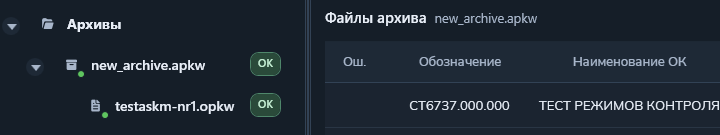
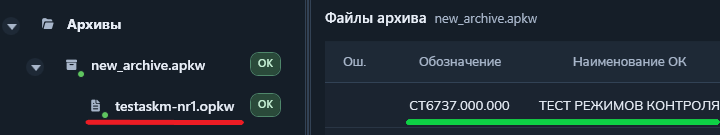
Вторая часть изменений описания архива.
Завершение.

Changed region(s): [[0.55, 0.8593, 1.0, 0.9481], [0.0917, 0.8593, 0.3361, 0.9481]]

diff --git a/Ask.Support/AppHelp/Content/ProgramCompositionChapter/MainComponentsOfProgramChapter/TabFileChapter/FuncArchivePart.html b/Ask.Support/AppHelp/Content/ProgramCompositionChapter/MainComponentsOfProgramChapter/TabFileChapter/FuncArchivePart.html
@@ -2,7 +2,7 @@
 <html lang="ru">
 <head>
     <meta charset="utf-8">
-    <title>Функция "Открыть архив"</title>
+    <title>Функция "Архив"</title>
     <meta name="viewport" content="width=device-width,initial-scale=1">
     <link rel="stylesheet" href="../../../../content.css">
 </head>
@@ -10,7 +10,7 @@
 <body>
     <main class="page-content">
 
-        <h2>Функция "Открыть архив"</h2>
+        <h2>Функция "Архив"</h2>
 
         <p>
             В данной функции можно создать, просмотреть и изменить содрежание <u>архивов</u>.
@@ -76,8 +76,8 @@
         <figure>
             <img src="createArchiveContextMenuImage.png"
                  width="340" height="115"
-                 alt="Создание архива с помощью контекстного меню">
-            <figcaption>Рисунок 5 - Создание архива с помощью контекстного меню</figcaption>
+                 alt="Контекстное меню управления архивами">
+            <figcaption>Рисунок 5 - Контекстное меню управления архивами</figcaption>
         </figure>
         <br>
         <figure>
@@ -123,7 +123,7 @@
         </figure>
         <br>
         <p>
-            После этого в основном окне слева появяться программы контроля, находящиеся в архиве.
+            После этого в основном окне справа появяться программы контроля, находящиеся в архиве.
         </p>
         <figure>
             <img src="generalPlanOpenArchiveImage.png"
@@ -138,28 +138,29 @@
         </p>
         <ul>
             <li>Через контекстное меню - навестисть мышкой на нужный архив, нажать правую кнопку мышки и выбрать соответствующий пункт, как на рисунке 11;</li>
-            <li>С помощью кнопки, расположенной справа сверху, как на рисунке 12 (кнопка №5).</li>
+            <li>С помощью кнопки, расположенной справа сверху, как на рисунке 12 (кнопка №6).</li>
         </ul>
         <figure>
             <img src="archiveContextMenuImage.png"
                  width="360" height="180"
-                 alt="Удаление архива с помощью контекстного меню">
-            <figcaption>Рисунок 11 - Контекстное меню управления архивом</figcaption>
+                 alt="Контекстное меню архива">
+            <figcaption>Рисунок 11 - Контекстное меню архива</figcaption>
         </figure>
         <br>
         <figure>
             <img src="archiveButtonImage.png"
-                 width="230" height="190"
-                 alt="Удаление архива с помощью кнопки">
+                 width="265" height="135"
+                 alt="Кнопки управления архивом">
             <figcaption>Рисунок 12 - Кнопки управления архивом</figcaption>
         </figure>
 
         <h3>Прочие действия с архивом</h3>
         <ul>
-            <li><strong>Сохранить архив на диск</strong> или <strong>кнопка №1</strong> - сохраняет архив на компьютер в виде файла с расширением *.apkw;</li>
-            <li><strong>Кнопка №2</strong> - конвертирует архив для старой версии программы управления АСК-МКИ;</li>
-            <li><strong>Распечатать каталог архива</strong> или <strong>кнопка №3</strong> - распечатывает каталог программ контроля из выбранного архива (<u>пример на рисунке 13</u>);</li>
-            <li><strong>Добавить файл</strong> или <strong>кнопка №4</strong> - добавляет новый файл программы контроля в архив.</li>
+            <li><strong>Сохранить архив на диск</strong> или <strong>кнопка №1</strong> (рисунок 12) - сохраняет архив на компьютер в виде файла с расширением *.apkw;</li>
+            <li><strong>Кнопка №2</strong> (рисунок 12) - конвертирует архив для старой версии программы управления АСК-МКИ;</li>
+            <li><strong>Распечатать каталог архива</strong> или <strong>кнопка №3</strong> (рисунок 12) - распечатывает каталог программ контроля из выбранного архива (<u>пример на рисунке 13</u>);</li>
+            <li><strong>Добавить файл</strong> или <strong>кнопка №4</strong> (рисунок 12) - добавляет новый файл программы контроля в архив;</li>
+            <li><strong>Вставить файл</strong> или <strong>кнопка №5</strong> (рисунок 12) - вставляет файл в архив из буфера обмена.</li>
         </ul>
         <figure>
             <img src="exampleArchiveCatalogImage.png"
@@ -168,58 +169,78 @@
             <figcaption>Рисунок 13 - Каталог архива</figcaption>
         </figure>
 
-        <h3>Открытие/удаление файла архива</h3>
+        <h3>Открытие программ контроля в архива</h3>
         <p>
-            После выбора файла в нижней части правой рабочей области появится содержимое выбранного файла.
+            Для откртия программ контроля в архиве есть два способа:
+        </p>
+        <ul>
+            <li>Нажать на нужный файл *.opkw из списка слева (<u>на рисунке 10 подчеркнуто красной чертой</u>);</li>
+            <li>Выбрать нужную программу контроля из списка справа (<u>на рисунке 10 подчеркнуто зелёной линией</u>).</li>
+        </ul>
+        <p>
+            После этого в основном окне снизу откроется окно с содержимым выбранной программы контроля (<u>показано на рисунке 14, обведено в зелёный прямоугольник</u>).
         </p>
         <figure>
-            <img src="openContentsArchiveImage.png"
-                 width="560" height="312"
-                 alt="Содержимое архива">
-            <figcaption>Рисунок 9 - Открытие содержимого архива</figcaption>
+            <img src="openProgramControlInArchiveImage.png"
+                 width="778" height="445"
+                 alt="Открытая программа контроля из архива">
+            <figcaption>Рисунок 14 - Открытая программа контроля из архива</figcaption>
         </figure>
-        <br>
-        <p>
-            При открытии файла есть возможность удалить выбранный файл из архива.
-            Для этого нужно нажать кнопку «Удалить файл».
-            Ещё удалить файл можно через левое меню (рисунок 8), нажав на него ПКМ.
-        </p>
 
-        <h3>Действия с архивом</h3>
+        <h3>Прочие действия с программой контроля в архиве</h3>
         <p>
-            После успешной трансляции файла в строке с названием файла появляются 2 кнопки:
-            «Сохранит странслированный файл в архив» и «Сохранить на диск».
+            С помощью кнопок управления (<u>находятся на рисунке 14 в красном квадрате посередине справа</u>) на рисунке 15 можно:
         </p>
+        <ul>
+            <li><strong>Кнопка №1</strong> - копирование содержания программы контроля;</li>
+            <li><strong>Кнопка №2</strong> - вырезание (удаление и сохранение в буфере обмена) содержания программы контроля;</li>
+            <li><strong>Кнопка №3</strong> - вставка содержания программы контроля из буфера обмена;</li>
+            <li><strong>Кнопка №4</strong> - конвертирование в отдельный файл программы контроля расширения *.pkw;</li>
+            <li><strong>Кнопка №5</strong> - запустить программу контроля в исполнение;</li>
+            <li><strong>Кнопка №6</strong> - удалить программу контроля из архива.</li>
+        </ul>
+        <!--<figure>
+        <img src="contextMenuFilesInArchiveImage.png"
+             width="235" height="125"
+             alt="Контекстное меню программ контроля в архиве">
+        <figcaption>Рисунок 15 - Контекстное меню программ контроля в архиве</figcaption>
+    </figure>
+    <br>-->
         <figure>
-            <img src="savingTranslatedFileToArchiveImage.png"
-                 width="341" height="115"
-                 alt="Кнопка сохранения транслированного файла в архив">
-            <figcaption>Рисунок 10 - Сохранения транслированного файла в архив</figcaption>
+            <img src="fileManagementButtonsInArchiveImage.png"
+                 width="245" height="100"
+                 alt="Кнопки управления программ контроля в архиве">
+            <figcaption>Рисунок 15 - Кнопки управления программ контроля в архиве</figcaption>
         </figure>
-        <br>
-        <p>
-            При нажатии на кнопку (обведена на рисунке 10) откроется окно выбрать архив,
-            в который будет сохранен странслированный файл.
-        </p>
-        <figure>
-            <img src="selectingArchiveToSaveImage.png"
-                 width="490" height="335"
-                 alt="Выбор архива для сохранения">
-            <figcaption>Рисунок 11 - Выбор архива для сохранения</figcaption>
-        </figure>
-        <br>
-        <p>
-            После успешного добавления файла в архив появится уведомление в правом верхнем углу рабочей области.
-        </p>
 
-        <h3>Работа с файлами архива</h3>
+        <h3>Импорт и экспорт</h3>
+        <p>
+            С помощью контекстного меню (<u>показано на рисунке 5</u>) или
+            кнопок в меню "Файл" (<u>показано на рисунке 16, появляется если ранее была использована функция "Открыть архив"</u>)
+            можно экспортировать и импортировать архив.
+        </p>
+        <figure>
+            <img src="buttonsImportAndExportImage.png"
+                 width="300" height="90"
+                 alt="Кнопки импорта и экспорта архива">
+            <figcaption>Рисунок 16 - Кнопки импорта и экспорта архива</figcaption>
+        </figure>
+        <br>
+        <p>
+            При импорте открывается файловый менеджер, где нужно выбрать файл расширения *.apkw.
+        </p>
+        <p>
+            При экспорте открывается файловый менеджер, где нужно выбрать место для сохранения.
+            После в выбранном месте появиться папка "Скачанные архивы", куда будут сохранены все архивы в расширении *.apkw.
+        </p>
+        <!--<h3>Работа с файлами архива</h3>
         <p>
             Файлы opkw можно скопировать из одного архива в другой.
             Для этого нужно нажать на соответствующий пункт либо в контекстном меню
             (открывается наведением мыши и нажатием на ПКМ), либо в области просмотра.
         </p>
         <figure>
-            <img src="selectingArchiveToSaveImage.png"
+            <img src="buttonsImportAndExportImage.png"
                  width="276" height="204"
                  alt="Контекстное меню файла в архиве">
             <figcaption>Рисунок 12 - Контекстное меню файла в архиве</figcaption>
@@ -261,7 +282,7 @@
         <p>
             Также, при необходимости можно экспортировать все архивы, которые есть в хранилище.
             Для этого нужно кликнуть по соответствующему пункту в меню файл или в контекстном меню архивов.
-        </p>
+        </p>-->
     </main>
 </body>
 </html>

diff --git a/Ask.Support/AppHelp/index.html b/Ask.Support/AppHelp/index.html
@@ -541,7 +541,7 @@
                                                 <div class="tree-item page"
                                                      id="FuncArchive"
                                                      data-src="Content/ProgramCompositionChapter/MainComponentsOfProgramChapter/TabFileChapter/FuncArchivePart.html">
-                                                    <span class="toggle"></span><span class="icon">📄</span><span>Функция "Открыть архив"</span>
+                                                    <span class="toggle"></span><span class="icon">📄</span><span>Функция "Архив"</span>
                                                 </div>
                                             </li>
                                             <li>
